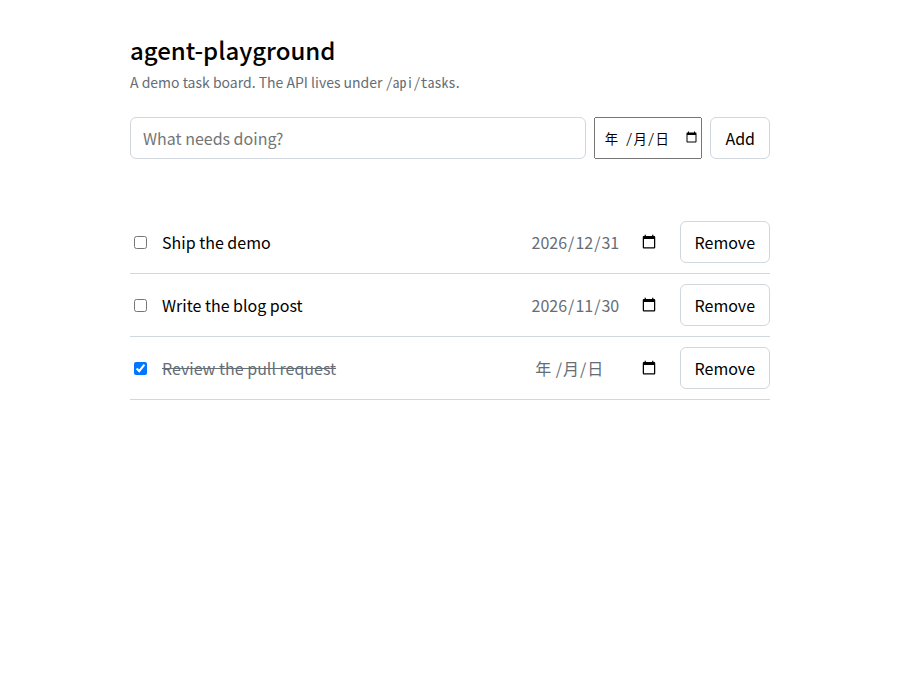
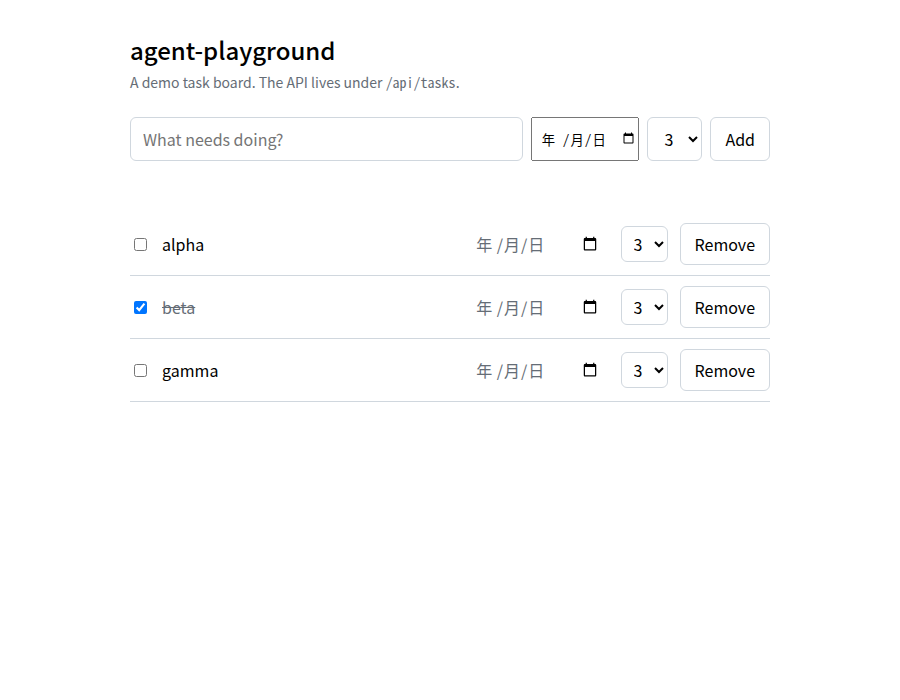
feat: add a done-status filter to the list

diff --git a/public/index.html b/public/index.html
@@ -42,6 +42,8 @@
   li select { padding: .25rem .5rem; }
   .empty { color: var(--muted); padding: 1.5rem 0; text-align: center; }
   .error { color: #cf222e; font-size: .875rem; min-height: 1.25rem; margin: .5rem 0 0; }
+  .toolbar { display: flex; align-items: center; gap: .5rem; margin: 1rem 0 0; }
+  .toolbar label { color: var(--muted); font-size: .875rem; }
 </style>
 </head>
 <body>
@@ -60,6 +62,16 @@
   </select>
   <button type="submit">Add</button>
 </form>
+
+<div class="toolbar">
+  <label for="filter">Show</label>
+  <select id="filter" aria-label="Filter by status" title="Filter by status">
+    <option value="">All</option>
+    <option value="false">Not done</option>
+    <option value="true">Done</option>
+  </select>
+</div>
+
 <p class="error" id="error"></p>
 
 <ul id="list"></ul>
@@ -67,6 +79,7 @@
 <script>
 const list = document.getElementById('list');
 const error = document.getElementById('error');
+const filter = document.getElementById('filter');
 
 async function api(path, options) {
   const response = await fetch(path, options);
@@ -76,13 +89,28 @@ async function api(path, options) {
   return body;
 }
 
+// The `done` URL parameter selects which tasks to show: "true" (done),
+// "false" (not done), or absent for all.
+function currentDone() {
+  const done = new URLSearchParams(location.search).get('done');
+  return done === 'true' || done === 'false' ? done : null;
+}
+
+function emptyMessage(done) {
+  if (done === 'true') return 'No completed tasks.';
+  if (done === 'false') return 'No open tasks.';
+  return 'No tasks yet.';
+}
+
 async function load() {
-  const { tasks } = await api('/api/tasks');
+  const done = currentDone();
+  const query = done === null ? '' : '?done=' + encodeURIComponent(done);
+  const { tasks } = await api('/api/tasks' + query);
   list.replaceChildren();
   if (!tasks.length) {
     const empty = document.createElement('li');
     empty.className = 'empty';
-    empty.textContent = 'No tasks yet.';
+    empty.textContent = emptyMessage(done);
     list.append(empty);
     return;
   }
@@ -175,6 +203,21 @@ document.getElementById('new').addEventListener('submit', async event => {
     show(err);
   }
 });
+
+filter.addEventListener('change', () => {
+  const url = new URL(location.href);
+  if (filter.value === '') url.searchParams.delete('done');
+  else url.searchParams.set('done', filter.value);
+  history.pushState({}, '', url);
+  load().catch(show);
+});
+
+window.addEventListener('popstate', () => {
+  filter.value = currentDone() ?? '';
+  load().catch(show);
+});
+
+filter.value = currentDone() ?? '';
 
 load().catch(show);
 </script>
